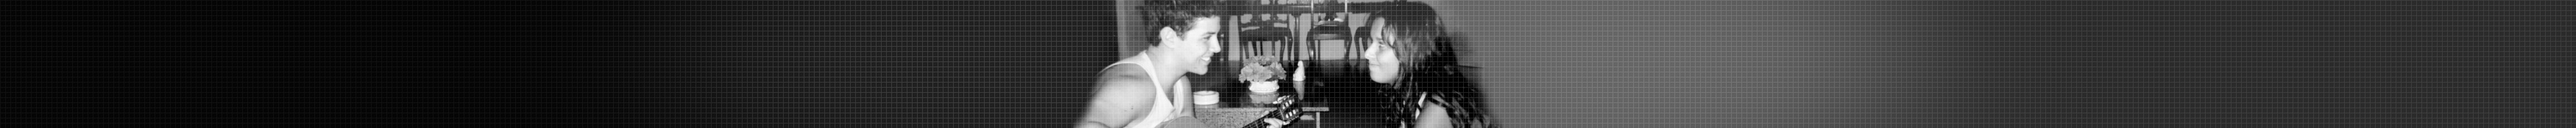
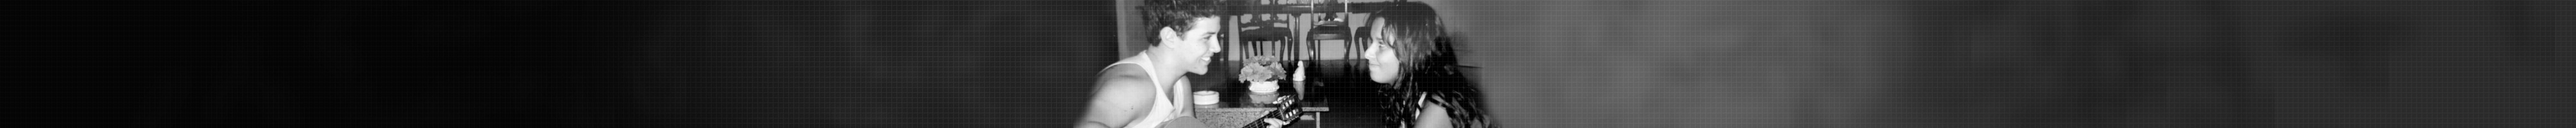
Alteração de imagens de capa e noivos.

diff --git a/assets/css/main.min.css b/assets/css/main.min.css
@@ -1,2 +1,2 @@
-@font-face{font-family:'Great Vibes';src:url("../../assets/fonts/Great_Vibes.woff2")}@font-face{font-family:'Roboto';src:url("../../assets/fonts/Roboto_normal.woff2");font-weight:normal;font-style:normal}@font-face{font-family:'Roboto';src:url("../../assets/fonts/Roboto_bold.woff2");font-weight:bold;font-style:normal}[ng\:cloak],[ng-cloak],[data-ng-cloak],[x-ng-cloak],.ng-cloak,.x-ng-cloak{display:none !important}.container.principal{margin-top:50px;margin-bottom:50px}.navbar-default{background:url(../../assets/images/main_back.jpg) repeat}@media (max-width: 480px), (min-width: 481px) and (max-width: 767px){.navbar-collapse,.navbar-form{border-color:#ddd;background-color:rgba(255,255,255,0.5)}}.navbar{font-family:'Roboto', sans-serif;min-height:80px;border-top:2px dashed #bfad99}@media (min-width: 768px) and (max-width: 1023px){.navbar .container{padding-left:0;padding-right:0}}.navbar .navbar-brand{height:80px;font-family:'Great Vibes', cursive;font-size:35px;line-height:65px;color:#bfad99}.navbar .navbar-brand:hover{color:#bfad99}.navbar .navbar-brand .detalhe{color:#d87385;font-size:20px}.navbar .navbar-header .navbar-toggle{margin-top:23px}@media (min-width: 768px) and (max-width: 1023px), (min-width: 1024px) and (max-width: 1199px), (min-width: 1200px) and (max-width: 1549px), (min-width: 1550px) and (max-width: 1823px), (min-width: 1824px){.navbar .navbar-nav>li{border-top:4px solid transparent;width:100px;font-weight:bold;-webkit-transition:all 0.3s ease-in-out;-moz-transition:all 0.3s ease-in-out;transition:all 0.3s ease-in-out}}@media (min-width: 768px) and (max-width: 1023px) and (min-width: 768px) and (max-width: 1023px), (min-width: 1024px) and (max-width: 1199px) and (min-width: 768px) and (max-width: 1023px), (min-width: 1200px) and (max-width: 1549px) and (min-width: 768px) and (max-width: 1023px), (min-width: 1550px) and (max-width: 1823px) and (min-width: 768px) and (max-width: 1023px), (min-width: 1824px) and (min-width: 768px) and (max-width: 1023px){.navbar .navbar-nav>li{font-size:12px;width:75px}}@media (min-width: 768px) and (max-width: 1023px), (min-width: 1024px) and (max-width: 1199px), (min-width: 1200px) and (max-width: 1549px), (min-width: 1550px) and (max-width: 1823px), (min-width: 1824px){.navbar .navbar-nav>li>a{height:86px;vertical-align:middle;display:table-cell;text-align:center;width:100px;color:#a79581}.navbar .navbar-nav>li>a:hover{color:#a79581}.navbar .navbar-nav>li:hover{border-top:4px solid #d87385;color:#d87385;background-color:rgba(243,231,219,0.5)}.navbar .nav>li>a{position:relative;display:block;padding:23px 10px;display:table-cell}}@media (min-width: 768px) and (max-width: 1023px) and (min-width: 768px) and (max-width: 1023px), (min-width: 1024px) and (max-width: 1199px) and (min-width: 768px) and (max-width: 1023px), (min-width: 1200px) and (max-width: 1549px) and (min-width: 768px) and (max-width: 1023px), (min-width: 1550px) and (max-width: 1823px) and (min-width: 768px) and (max-width: 1023px), (min-width: 1824px) and (min-width: 768px) and (max-width: 1023px){.navbar .nav>li>a{padding:14px 0px;width:50px}}@media (max-width: 480px), (min-width: 481px) and (max-width: 767px){.navbar .navbar-nav>li:hover,.navbar .navbar-nav>li:active{border-left:4px solid #d87385;color:#d87385;background-color:rgba(243,231,219,0.5)}}.img-responsive.center{margin:0 auto}.img-responsive.separador{width:auto;height:25px;margin:25px auto}html{height:100%}body{min-height:100%}div.topo{margin-top:-20px;height:200px;box-shadow:0 0px 50px rgba(0,0,0,0.35)}@media (max-width: 480px), (min-width: 481px) and (max-width: 767px){div.topo{height:120px}}div.topo .titulo{font-family:'Great Vibes';font-size:5em;text-align:center;margin-top:55px;color:#fff;text-shadow:-1px 0 #a79581,0 1px #a79581,1px 0 #a79581,0 -1px #a79581}@media (max-width: 480px), (min-width: 481px) and (max-width: 767px){div.topo .titulo{font-size:3.5em;line-height:0.5}}div.topo.noivos{background:url(../../assets/images/noivos_croped_grid_vignette.jpg) no-repeat center center;background-size:auto auto}div.topo.padrinhos{background:url(../../assets/images/amigos_croped_grid_vignette.jpg) no-repeat center center;background-size:auto 300px}div.topo.traje{background:url(../../assets/images/traje_croped_grid.png) no-repeat center center;background-size:auto 300px}div.topo.presentes{background:url(../../assets/images/presentes_croped_grid_vignette.jpg) no-repeat center center;background-size:auto 300px}div.topo.confirmacao{background:url(../../assets/images/convite_croped_grid_vignette.jpg) no-repeat center center;background-size:auto auto}div.topo.cerimonia{background:url(../../assets/images/cerimonia_croped_grid_vignette.jpg) no-repeat center center;background-size:auto 400px}@media (max-width: 480px), (min-width: 481px) and (max-width: 767px){div.topo.noivos,div.topo.padrinhos,div.topo.traje,div.topo.presentes,div.topo.confirmacao,div.topo.cerimonia{background-size:auto 150px}}section p{text-align:center;font-size:16px}#footer{background-color:#333;color:#a5a5a5}#footer .detalhe{color:#d87385}h1{font-family:'Great Vibes';color:#d87385;margin-bottom:35px;text-align:center;font-size:50px}h1 small{font-family:'Roboto', sans-serif;color:#bfad99;font-size:0.45em}@media (max-width: 480px), (min-width: 481px) and (max-width: 767px){h1 small{display:none}}h2{font-family:'Great Vibes';color:#a79581;text-align:center}.frame-conjuge-wrapper{background-color:#eee;padding:10px;margin-bottom:15px;border-radius:5px}.frame-conjuge-wrapper .frame-conjuge{background-color:#eee;border:1px solid #ddd;border-radius:5px}.frame-conjuge-wrapper .frame-conjuge h1{font-size:35px;margin-bottom:20px;color:#a79581}.frame-conjuge-wrapper .frame-conjuge section p{text-align:center;margin:10px;text-indent:0}.frame-conjuge-wrapper .frame-conjuge .img-avatar{width:240px;height:240px;border-radius:50%;left:0;margin:0px auto;background-position:center;background-size:cover}.frame-conjuge-wrapper .frame-conjuge .img-avatar:before{display:block;content:"";position:absolute;width:240px;height:240px;border:10px solid rgba(255,255,255,0.4);border-radius:50%}.row.card-loja{background-color:#fbfaf2;border-radius:5px;margin-bottom:15px;margin-left:5px;margin-right:5px;border:1px solid #f1efe5}.row.card-loja h1{text-align:left;font-size:30px;margin-top:10px;margin-bottom:10px}.row.card-loja p{text-align:left}.row.card-loja img{width:250px;height:auto}.row.form-presenca{margin-top:10px}.row.form-presenca label{font-family:'Roboto', sans-serif}.row.form-presenca .well{background-color:#fbfaf2}.row.form-presenca .well.well-success{background-color:#d8eed8;border:1px solid #5cb85c}.row.form-presenca .well.well-danger{background-color:#f9e2e2;border:1px solid #d9534f}.row.form-presenca .well h2{font-family:'Roboto', sans-serif;margin-bottom:20px}@media (min-width: 768px) and (max-width: 1023px), (min-width: 1024px) and (max-width: 1199px), (min-width: 1200px) and (max-width: 1549px), (min-width: 1550px) and (max-width: 1823px), (min-width: 1824px){.row.form-presenca .btn-radio{width:250px;text-align:center}}.row.form-presenca .btn-radio>input[type=radio]{position:absolute;clip:rect(0, 0, 0, 0);pointer-events:none}.row.form-presenca .submit{text-align:center;margin-top:30px}.row.form-presenca .centralizado{display:table;margin:0 auto}.row.form-presenca .acompanhantes .btn-default{background-color:#eee}.row.form-presenca .form-group.wrapper.has-error{border:1px solid #d9534f;border-radius:4px}.row.detalhes{background-color:#fbfaf2;border:1px solid #f1efe5;border-radius:5px;padding-bottom:10px}.row.detalhes ul li{display:block}.row.detalhes ul li em{color:#d87385;font-weight:bold;font-style:italic}.row.detalhes ul li:before{content:"\e080";font-family:'Glyphicons Halflings';font-size:12px;float:left;margin-top:2px;margin-left:-17px;color:#d87385}.row div.card-banco{background-color:#ffffff;border-radius:5px;border:1px solid #eee;padding:0 10px;margin:0 auto;box-shadow:0 0px 15px rgba(0,0,0,0.1)}@media (max-width: 480px), (min-width: 481px) and (max-width: 767px){.row div.card-banco{margin-bottom:10px;max-width:300px}}.row div.card-banco div.logo{text-align:center;height:100px}.row div.card-banco div.logo:before{content:'';height:100%;display:inline-block;vertical-align:middle}.row div.card-banco div.logo img{display:inline-block;vertical-align:middle}.row div.card-banco dd{margin-left:15px}.mapa{padding:50px 0px;background-color:#fbfaf2;border-top:1px solid #f1efe5}.mapa iframe{width:100%;height:400px;border:2px dashed #d87385;border-left:0;border-right:0}.padrinhos .container{padding:10px}.padrinhos .container.left{border-top-left-radius:30px;border-bottom-left-radius:30px}.padrinhos .container.right{border-top-right-radius:30px;border-bottom-right-radius:30px}.padrinhos .container .nome{color:#d87385;text-align:center;font-family:'Great Vibes';font-size:2em;margin-top:10px}@media (max-width: 480px){.padrinhos .container .nome{font-size:1.5em}}.padrinhos .container .foto{width:200px;height:200px;border-radius:50%;left:0;margin:0px auto;background-position:center;background-size:cover;-webkit-filter:grayscale(100%);filter:grayscale(100%)}@media (max-width: 480px){.padrinhos .container .foto{width:100px;height:100px}}@media (min-width: 481px) and (max-width: 767px){.padrinhos .container .foto{width:150px;height:150px}}.padrinhos .container .foto:before{display:block;content:"";position:absolute;width:200px;height:200px;border:10px solid rgba(255,255,255,0.4);border-radius:50%}@media (max-width: 480px){.padrinhos .container .foto:before{width:100px;height:100px}}@media (min-width: 481px) and (max-width: 767px){.padrinhos .container .foto:before{width:150px;height:150px}}.padrinhos:hover .container{background-color:#fbfaf2;-webkit-transition:all 0.3s ease-in-out;-moz-transition:all 0.3s ease-in-out;transition:all 0.3s ease-in-out}.padrinhos:hover .container .foto{-webkit-filter:grayscale(0%);filter:grayscale(0%);-webkit-transition:all 0.3s ease-in-out;-moz-transition:all 0.3s ease-in-out;transition:all 0.3s ease-in-out}
+@font-face{font-family:'Great Vibes';src:url("../../assets/fonts/Great_Vibes.woff2")}@font-face{font-family:'Roboto';src:url("../../assets/fonts/Roboto_normal.woff2");font-weight:normal;font-style:normal}@font-face{font-family:'Roboto';src:url("../../assets/fonts/Roboto_bold.woff2");font-weight:bold;font-style:normal}[ng\:cloak],[ng-cloak],[data-ng-cloak],[x-ng-cloak],.ng-cloak,.x-ng-cloak{display:none !important}.container.principal{margin-top:50px;margin-bottom:50px}.navbar-default{background:url(../../assets/images/main_back2.jpg) repeat}@media (max-width: 480px), (min-width: 481px) and (max-width: 767px){.navbar-collapse,.navbar-form{border-color:#ddd;background-color:rgba(255,255,255,0.5)}}.navbar{font-family:'Roboto', sans-serif;min-height:80px;border-top:2px dashed #bfad99}@media (min-width: 768px) and (max-width: 1023px){.navbar .container{padding-left:0;padding-right:0}}.navbar .navbar-brand{height:80px;font-family:'Great Vibes', cursive;font-size:35px;line-height:65px;color:#bfad99}.navbar .navbar-brand:hover{color:#bfad99}.navbar .navbar-brand .detalhe{color:#d87385;font-size:20px}.navbar .navbar-header .navbar-toggle{margin-top:23px}@media (min-width: 768px) and (max-width: 1023px), (min-width: 1024px) and (max-width: 1199px), (min-width: 1200px) and (max-width: 1549px), (min-width: 1550px) and (max-width: 1823px), (min-width: 1824px){.navbar .navbar-nav>li{border-top:4px solid transparent;width:100px;font-weight:bold;-webkit-transition:all 0.3s ease-in-out;-moz-transition:all 0.3s ease-in-out;transition:all 0.3s ease-in-out}}@media (min-width: 768px) and (max-width: 1023px) and (min-width: 768px) and (max-width: 1023px), (min-width: 1024px) and (max-width: 1199px) and (min-width: 768px) and (max-width: 1023px), (min-width: 1200px) and (max-width: 1549px) and (min-width: 768px) and (max-width: 1023px), (min-width: 1550px) and (max-width: 1823px) and (min-width: 768px) and (max-width: 1023px), (min-width: 1824px) and (min-width: 768px) and (max-width: 1023px){.navbar .navbar-nav>li{font-size:12px;width:75px}}@media (min-width: 768px) and (max-width: 1023px), (min-width: 1024px) and (max-width: 1199px), (min-width: 1200px) and (max-width: 1549px), (min-width: 1550px) and (max-width: 1823px), (min-width: 1824px){.navbar .navbar-nav>li>a{height:86px;vertical-align:middle;display:table-cell;text-align:center;width:100px;color:#a79581}.navbar .navbar-nav>li>a:hover{color:#a79581}.navbar .navbar-nav>li:hover{border-top:4px solid #d87385;color:#d87385;background-color:rgba(243,231,219,0.5)}.navbar .nav>li>a{position:relative;display:block;padding:23px 10px;display:table-cell}}@media (min-width: 768px) and (max-width: 1023px) and (min-width: 768px) and (max-width: 1023px), (min-width: 1024px) and (max-width: 1199px) and (min-width: 768px) and (max-width: 1023px), (min-width: 1200px) and (max-width: 1549px) and (min-width: 768px) and (max-width: 1023px), (min-width: 1550px) and (max-width: 1823px) and (min-width: 768px) and (max-width: 1023px), (min-width: 1824px) and (min-width: 768px) and (max-width: 1023px){.navbar .nav>li>a{padding:14px 0px;width:50px}}@media (max-width: 480px), (min-width: 481px) and (max-width: 767px){.navbar .navbar-nav>li:hover,.navbar .navbar-nav>li:active{border-left:4px solid #d87385;color:#d87385;background-color:rgba(243,231,219,0.5)}}.img-responsive.center{margin:0 auto}.img-responsive.separador{width:auto;height:25px;margin:25px auto}html{height:100%}body{min-height:100%}div.topo{margin-top:-20px;height:200px;box-shadow:0 0px 50px rgba(0,0,0,0.35)}@media (max-width: 480px), (min-width: 481px) and (max-width: 767px){div.topo{height:120px}}div.topo .titulo{font-family:'Great Vibes';font-size:5em;text-align:center;margin-top:55px;color:#fff;text-shadow:-1px 0 #a79581,0 1px #a79581,1px 0 #a79581,0 -1px #a79581}@media (max-width: 480px), (min-width: 481px) and (max-width: 767px){div.topo .titulo{font-size:3.5em;line-height:0.5}}div.topo.noivos{background:url(../../assets/images/noivos_croped_grid_vignette.jpg) no-repeat center center;background-size:auto auto}div.topo.padrinhos{background:url(../../assets/images/amigos_croped_grid_vignette.jpg) no-repeat center center;background-size:auto 300px}div.topo.traje{background:url(../../assets/images/traje_croped_grid.png) no-repeat center center;background-size:auto 300px}div.topo.presentes{background:url(../../assets/images/presentes_croped_grid_vignette.jpg) no-repeat center center;background-size:auto 300px}div.topo.confirmacao{background:url(../../assets/images/convite_croped_grid_vignette.jpg) no-repeat center center;background-size:auto auto}div.topo.cerimonia{background:url(../../assets/images/cerimonia_croped_grid_vignette.jpg) no-repeat center center;background-size:auto 400px}@media (max-width: 480px), (min-width: 481px) and (max-width: 767px){div.topo.noivos,div.topo.padrinhos,div.topo.traje,div.topo.presentes,div.topo.confirmacao,div.topo.cerimonia{background-size:auto 150px}}section p{text-align:center;font-size:16px}#footer{background-color:#333;color:#a5a5a5}#footer .detalhe{color:#d87385}h1{font-family:'Great Vibes';color:#d87385;margin-bottom:35px;text-align:center;font-size:50px}h1 small{font-family:'Roboto', sans-serif;color:#bfad99;font-size:0.45em}@media (max-width: 480px), (min-width: 481px) and (max-width: 767px){h1 small{display:none}}h2{font-family:'Great Vibes';color:#a79581;text-align:center}.frame-conjuge-wrapper{background-color:#eee;padding:10px;margin-bottom:15px;border-radius:5px}.frame-conjuge-wrapper .frame-conjuge{background-color:#eee;border:1px solid #ddd;border-radius:5px}.frame-conjuge-wrapper .frame-conjuge h1{font-size:35px;margin-bottom:20px;color:#a79581}.frame-conjuge-wrapper .frame-conjuge section p{text-align:center;margin:10px;text-indent:0}.frame-conjuge-wrapper .frame-conjuge .img-avatar{width:240px;height:240px;border-radius:50%;left:0;margin:0px auto;background-position:center;background-size:cover}.frame-conjuge-wrapper .frame-conjuge .img-avatar:before{display:block;content:"";position:absolute;width:240px;height:240px;border:10px solid rgba(255,255,255,0.4);border-radius:50%}.row.card-loja{background-color:#fbfaf2;border-radius:5px;margin-bottom:15px;margin-left:5px;margin-right:5px;border:1px solid #f1efe5}.row.card-loja h1{text-align:left;font-size:30px;margin-top:10px;margin-bottom:10px}.row.card-loja p{text-align:left}.row.card-loja img{width:250px;height:auto}.row.form-presenca{margin-top:10px}.row.form-presenca label{font-family:'Roboto', sans-serif}.row.form-presenca .well{background-color:#fbfaf2}.row.form-presenca .well.well-success{background-color:#d8eed8;border:1px solid #5cb85c}.row.form-presenca .well.well-danger{background-color:#f9e2e2;border:1px solid #d9534f}.row.form-presenca .well h2{font-family:'Roboto', sans-serif;margin-bottom:20px}@media (min-width: 768px) and (max-width: 1023px), (min-width: 1024px) and (max-width: 1199px), (min-width: 1200px) and (max-width: 1549px), (min-width: 1550px) and (max-width: 1823px), (min-width: 1824px){.row.form-presenca .btn-radio{width:250px;text-align:center}}.row.form-presenca .btn-radio>input[type=radio]{position:absolute;clip:rect(0, 0, 0, 0);pointer-events:none}.row.form-presenca .submit{text-align:center;margin-top:30px}.row.form-presenca .centralizado{display:table;margin:0 auto}.row.form-presenca .acompanhantes .btn-default{background-color:#eee}.row.form-presenca .form-group.wrapper.has-error{border:1px solid #d9534f;border-radius:4px}.row.detalhes{background-color:#fbfaf2;border:1px solid #f1efe5;border-radius:5px;padding-bottom:10px}.row.detalhes ul li{display:block}.row.detalhes ul li em{color:#d87385;font-weight:bold;font-style:italic}.row.detalhes ul li:before{content:"\e080";font-family:'Glyphicons Halflings';font-size:12px;float:left;margin-top:2px;margin-left:-17px;color:#d87385}.row div.card-banco{background-color:#ffffff;border-radius:5px;border:1px solid #eee;padding:0 10px;margin:0 auto;box-shadow:0 0px 15px rgba(0,0,0,0.1)}@media (max-width: 480px), (min-width: 481px) and (max-width: 767px){.row div.card-banco{margin-bottom:10px;max-width:300px}}.row div.card-banco div.logo{text-align:center;height:100px}.row div.card-banco div.logo:before{content:'';height:100%;display:inline-block;vertical-align:middle}.row div.card-banco div.logo img{display:inline-block;vertical-align:middle}.row div.card-banco dd{margin-left:15px}.mapa{padding:50px 0px;background-color:#fbfaf2;border-top:1px solid #f1efe5}.mapa iframe{width:100%;height:400px;border:2px dashed #d87385;border-left:0;border-right:0}.padrinhos .container{padding:10px}.padrinhos .container.left{border-top-left-radius:30px;border-bottom-left-radius:30px}.padrinhos .container.right{border-top-right-radius:30px;border-bottom-right-radius:30px}.padrinhos .container .nome{color:#d87385;text-align:center;font-family:'Great Vibes';font-size:2em;margin-top:10px}@media (max-width: 480px){.padrinhos .container .nome{font-size:1.5em}}.padrinhos .container .foto{width:200px;height:200px;border-radius:50%;left:0;margin:0px auto;background-position:center;background-size:cover;-webkit-filter:grayscale(100%);filter:grayscale(100%)}@media (max-width: 480px){.padrinhos .container .foto{width:100px;height:100px}}@media (min-width: 481px) and (max-width: 767px){.padrinhos .container .foto{width:150px;height:150px}}.padrinhos .container .foto:before{display:block;content:"";position:absolute;width:200px;height:200px;border:10px solid rgba(255,255,255,0.4);border-radius:50%}@media (max-width: 480px){.padrinhos .container .foto:before{width:100px;height:100px;border:5px solid rgba(255,255,255,0.4)}}@media (min-width: 481px) and (max-width: 767px){.padrinhos .container .foto:before{width:150px;height:150px;border:5px solid rgba(255,255,255,0.4)}}.padrinhos:hover .container{background-color:#fbfaf2;-webkit-transition:all 0.3s ease-in-out;-moz-transition:all 0.3s ease-in-out;transition:all 0.3s ease-in-out}.padrinhos:hover .container .foto{-webkit-filter:grayscale(0%);filter:grayscale(0%);-webkit-transition:all 0.3s ease-in-out;-moz-transition:all 0.3s ease-in-out;transition:all 0.3s ease-in-out}
 /*# sourceMappingURL=main.min.css.map */

diff --git a/assets/css/landing.min.css b/assets/css/landing.min.css
@@ -1,2 +1,2 @@
-@font-face{font-family:'Great Vibes';src:url("../../assets/fonts/Great_Vibes.woff2")}@font-face{font-family:'Roboto';src:url("../../assets/fonts/Roboto_normal.woff2");font-weight:normal;font-style:normal}@font-face{font-family:'Roboto';src:url("../../assets/fonts/Roboto_bold.woff2");font-weight:bold;font-style:normal}[ng\:cloak],[ng-cloak],[data-ng-cloak],[x-ng-cloak],.ng-cloak,.x-ng-cloak{display:none !important}.container.principal{margin-top:50px;margin-bottom:50px}.navbar-default{background:url(../../assets/images/main_back.jpg) repeat}@media (max-width: 480px), (min-width: 481px) and (max-width: 767px){.navbar-collapse,.navbar-form{border-color:#ddd;background-color:rgba(255,255,255,0.5)}}.navbar{font-family:'Roboto', sans-serif;min-height:80px;border-top:2px dashed #bfad99}@media (min-width: 768px) and (max-width: 1023px){.navbar .container{padding-left:0;padding-right:0}}.navbar .navbar-brand{height:80px;font-family:'Great Vibes', cursive;font-size:35px;line-height:65px;color:#bfad99}.navbar .navbar-brand:hover{color:#bfad99}.navbar .navbar-brand .detalhe{color:#d87385;font-size:20px}.navbar .navbar-header .navbar-toggle{margin-top:23px}@media (min-width: 768px) and (max-width: 1023px), (min-width: 1024px) and (max-width: 1199px), (min-width: 1200px) and (max-width: 1549px), (min-width: 1550px) and (max-width: 1823px), (min-width: 1824px){.navbar .navbar-nav>li{border-top:4px solid transparent;width:100px;font-weight:bold;-webkit-transition:all 0.3s ease-in-out;-moz-transition:all 0.3s ease-in-out;transition:all 0.3s ease-in-out}}@media (min-width: 768px) and (max-width: 1023px) and (min-width: 768px) and (max-width: 1023px), (min-width: 1024px) and (max-width: 1199px) and (min-width: 768px) and (max-width: 1023px), (min-width: 1200px) and (max-width: 1549px) and (min-width: 768px) and (max-width: 1023px), (min-width: 1550px) and (max-width: 1823px) and (min-width: 768px) and (max-width: 1023px), (min-width: 1824px) and (min-width: 768px) and (max-width: 1023px){.navbar .navbar-nav>li{font-size:12px;width:75px}}@media (min-width: 768px) and (max-width: 1023px), (min-width: 1024px) and (max-width: 1199px), (min-width: 1200px) and (max-width: 1549px), (min-width: 1550px) and (max-width: 1823px), (min-width: 1824px){.navbar .navbar-nav>li>a{height:86px;vertical-align:middle;display:table-cell;text-align:center;width:100px;color:#a79581}.navbar .navbar-nav>li>a:hover{color:#a79581}.navbar .navbar-nav>li:hover{border-top:4px solid #d87385;color:#d87385;background-color:rgba(243,231,219,0.5)}.navbar .nav>li>a{position:relative;display:block;padding:23px 10px;display:table-cell}}@media (min-width: 768px) and (max-width: 1023px) and (min-width: 768px) and (max-width: 1023px), (min-width: 1024px) and (max-width: 1199px) and (min-width: 768px) and (max-width: 1023px), (min-width: 1200px) and (max-width: 1549px) and (min-width: 768px) and (max-width: 1023px), (min-width: 1550px) and (max-width: 1823px) and (min-width: 768px) and (max-width: 1023px), (min-width: 1824px) and (min-width: 768px) and (max-width: 1023px){.navbar .nav>li>a{padding:14px 0px;width:50px}}@media (max-width: 480px), (min-width: 481px) and (max-width: 767px){.navbar .navbar-nav>li:hover,.navbar .navbar-nav>li:active{border-left:4px solid #d87385;color:#d87385;background-color:rgba(243,231,219,0.5)}}.img-responsive.center{margin:0 auto}.img-responsive.separador{width:auto;height:25px;margin:25px auto}html{background:url(../../assets/images/bg_teste_2.jpg) no-repeat center center fixed;background-size:cover;-webkit-background-size:cover;-moz-background-size:cover;-o-background-size:cover}body{background-color:transparent;box-shadow:0 0 500px rgba(93,60,0,0.8) inset}.conjuges{font-family:'Great Vibes', cursive;font-size:60px;color:#fff;margin-top:75px}.conjuges>.conector{text-align:center;color:#d87385}.conjuges>.noiva{text-align:right}.conjuges>.noivo{text-align:left}@media (min-width: 768px) and (max-width: 1023px){.conjuges{font-size:50px}}@media (max-width: 480px), (min-width: 481px) and (max-width: 767px){.conjuges{font-size:50px}.conjuges>.noiva{text-align:center}.conjuges>.noivo{text-align:center}.conjuges>.conector{font-size:35px;margin-bottom:-10px}}@media (min-width: 768px) and (max-width: 1023px), (min-width: 1024px) and (max-width: 1199px), (min-width: 1200px) and (max-width: 1549px), (min-width: 1550px) and (max-width: 1823px), (min-width: 1824px){.conjuges{margin-top:120px}}@media (min-width: 1550px) and (max-width: 1823px), (min-width: 1824px){.conjuges{font-size:80px;margin-top:250px}}.subtitulo{font-family:'Roboto', sans-serif;font-weight:300;font-size:19px;color:#fff;text-align:center;letter-spacing:6px;text-transform:uppercase}@media (max-width: 480px), (min-width: 481px) and (max-width: 767px){.subtitulo{font-size:16px;margin-top:15px}}.countdown-unit{font-family:'Roboto', sans-serif;font-weight:300;border-radius:50%;width:150px;height:150px;background:rgba(255,255,255,0.3);border:3px solid #d87385;text-align:center;color:#fff;margin:50px auto 0 auto}.countdown-unit>.tempo{font-size:55px;display:block;margin-top:15px;text-shadow:0px 0px 14px #969696}.countdown-unit>.unidade{display:block;font-size:20px}@media (min-width: 768px) and (max-width: 1023px){.countdown-unit{width:120px;height:120px}.countdown-unit>.tempo{font-size:40px;margin-top:10px}.countdown-unit>.unidade{font-size:14px}}@media (max-width: 480px), (min-width: 481px) and (max-width: 767px){.countdown-unit{width:65px;height:65px}.countdown-unit>.tempo{font-size:26px;margin-top:10px}.countdown-unit>.unidade{font-size:14px;margin-top:20px}}.animate-if.ng-enter,.animate-if.ng-leave{-webkit-transition:all cubic-bezier(0.25, 0.46, 0.45, 0.94) 1s;-moz-transition:all cubic-bezier(0.25, 0.46, 0.45, 0.94) 1s;transition:all cubic-bezier(0.25, 0.46, 0.45, 0.94) 1s}.animate-if.ng-enter,.animate-if.ng-leave.ng-leave-active{opacity:0}.animate-if.ng-leave,.animate-if.ng-enter.ng-enter-active{opacity:1}
+@font-face{font-family:'Great Vibes';src:url("../../assets/fonts/Great_Vibes.woff2")}@font-face{font-family:'Roboto';src:url("../../assets/fonts/Roboto_normal.woff2");font-weight:normal;font-style:normal}@font-face{font-family:'Roboto';src:url("../../assets/fonts/Roboto_bold.woff2");font-weight:bold;font-style:normal}[ng\:cloak],[ng-cloak],[data-ng-cloak],[x-ng-cloak],.ng-cloak,.x-ng-cloak{display:none !important}.container.principal{margin-top:50px;margin-bottom:50px}.navbar-default{background:url(../../assets/images/main_back2.jpg) repeat}@media (max-width: 480px), (min-width: 481px) and (max-width: 767px){.navbar-collapse,.navbar-form{border-color:#ddd;background-color:rgba(255,255,255,0.5)}}.navbar{font-family:'Roboto', sans-serif;min-height:80px;border-top:2px dashed #bfad99}@media (min-width: 768px) and (max-width: 1023px){.navbar .container{padding-left:0;padding-right:0}}.navbar .navbar-brand{height:80px;font-family:'Great Vibes', cursive;font-size:35px;line-height:65px;color:#bfad99}.navbar .navbar-brand:hover{color:#bfad99}.navbar .navbar-brand .detalhe{color:#d87385;font-size:20px}.navbar .navbar-header .navbar-toggle{margin-top:23px}@media (min-width: 768px) and (max-width: 1023px), (min-width: 1024px) and (max-width: 1199px), (min-width: 1200px) and (max-width: 1549px), (min-width: 1550px) and (max-width: 1823px), (min-width: 1824px){.navbar .navbar-nav>li{border-top:4px solid transparent;width:100px;font-weight:bold;-webkit-transition:all 0.3s ease-in-out;-moz-transition:all 0.3s ease-in-out;transition:all 0.3s ease-in-out}}@media (min-width: 768px) and (max-width: 1023px) and (min-width: 768px) and (max-width: 1023px), (min-width: 1024px) and (max-width: 1199px) and (min-width: 768px) and (max-width: 1023px), (min-width: 1200px) and (max-width: 1549px) and (min-width: 768px) and (max-width: 1023px), (min-width: 1550px) and (max-width: 1823px) and (min-width: 768px) and (max-width: 1023px), (min-width: 1824px) and (min-width: 768px) and (max-width: 1023px){.navbar .navbar-nav>li{font-size:12px;width:75px}}@media (min-width: 768px) and (max-width: 1023px), (min-width: 1024px) and (max-width: 1199px), (min-width: 1200px) and (max-width: 1549px), (min-width: 1550px) and (max-width: 1823px), (min-width: 1824px){.navbar .navbar-nav>li>a{height:86px;vertical-align:middle;display:table-cell;text-align:center;width:100px;color:#a79581}.navbar .navbar-nav>li>a:hover{color:#a79581}.navbar .navbar-nav>li:hover{border-top:4px solid #d87385;color:#d87385;background-color:rgba(243,231,219,0.5)}.navbar .nav>li>a{position:relative;display:block;padding:23px 10px;display:table-cell}}@media (min-width: 768px) and (max-width: 1023px) and (min-width: 768px) and (max-width: 1023px), (min-width: 1024px) and (max-width: 1199px) and (min-width: 768px) and (max-width: 1023px), (min-width: 1200px) and (max-width: 1549px) and (min-width: 768px) and (max-width: 1023px), (min-width: 1550px) and (max-width: 1823px) and (min-width: 768px) and (max-width: 1023px), (min-width: 1824px) and (min-width: 768px) and (max-width: 1023px){.navbar .nav>li>a{padding:14px 0px;width:50px}}@media (max-width: 480px), (min-width: 481px) and (max-width: 767px){.navbar .navbar-nav>li:hover,.navbar .navbar-nav>li:active{border-left:4px solid #d87385;color:#d87385;background-color:rgba(243,231,219,0.5)}}.img-responsive.center{margin:0 auto}.img-responsive.separador{width:auto;height:25px;margin:25px auto}html{background:url(../../assets/images/capa.jpg) no-repeat center center fixed;background-size:cover;-webkit-background-size:cover;-moz-background-size:cover;-o-background-size:cover}@media (max-width: 480px){html{background:url(../../assets/images/capa.jpg) no-repeat -200px center fixed;background-size:cover;-webkit-background-size:cover;-moz-background-size:cover;-o-background-size:cover}}body{background-color:transparent}.conjuges{font-family:'Great Vibes', cursive;font-size:60px;color:#fff;margin-top:75px;text-shadow:0px 0px 14px #404040}.conjuges>.conector{text-align:center;color:#d87385}.conjuges>.noiva{text-align:right}.conjuges>.noivo{text-align:left}@media (min-width: 768px) and (max-width: 1023px){.conjuges{font-size:50px}}@media (max-width: 480px), (min-width: 481px) and (max-width: 767px){.conjuges{font-size:50px}.conjuges>.noiva{text-align:center}.conjuges>.noivo{text-align:center}.conjuges>.conector{font-size:35px;margin-bottom:-10px}}@media (min-width: 768px) and (max-width: 1023px), (min-width: 1024px) and (max-width: 1199px), (min-width: 1200px) and (max-width: 1549px), (min-width: 1550px) and (max-width: 1823px), (min-width: 1824px){.conjuges{margin-top:120px}}@media (min-width: 1550px) and (max-width: 1823px), (min-width: 1824px){.conjuges{font-size:80px;margin-top:250px}}.subtitulo{font-family:'Roboto', sans-serif;font-weight:300;font-size:19px;color:#fff;text-align:center;letter-spacing:6px;text-transform:uppercase}@media (max-width: 480px), (min-width: 481px) and (max-width: 767px){.subtitulo{font-size:16px;margin-top:15px}}.countdown-unit{font-family:'Roboto', sans-serif;font-weight:300;border-radius:50%;width:150px;height:150px;background:rgba(255,255,255,0.3);border:3px solid #d87385;text-align:center;color:#fff;margin:50px auto 0 auto}.countdown-unit>.tempo{font-size:55px;display:block;margin-top:15px;text-shadow:0px 0px 14px #444}.countdown-unit>.unidade{display:block;font-size:20px}@media (min-width: 768px) and (max-width: 1023px){.countdown-unit{width:120px;height:120px}.countdown-unit>.tempo{font-size:40px;margin-top:10px}.countdown-unit>.unidade{font-size:14px}}@media (max-width: 480px), (min-width: 481px) and (max-width: 767px){.countdown-unit{width:65px;height:65px}.countdown-unit>.tempo{font-size:26px;margin-top:10px}.countdown-unit>.unidade{font-size:14px;margin-top:20px}}.animate-if.ng-enter,.animate-if.ng-leave{-webkit-transition:all cubic-bezier(0.25, 0.46, 0.45, 0.94) 1s;-moz-transition:all cubic-bezier(0.25, 0.46, 0.45, 0.94) 1s;transition:all cubic-bezier(0.25, 0.46, 0.45, 0.94) 1s}.animate-if.ng-enter,.animate-if.ng-leave.ng-leave-active{opacity:0}.animate-if.ng-leave,.animate-if.ng-enter.ng-enter-active{opacity:1}
 /*# sourceMappingURL=landing.min.css.map */

diff --git a/src/assets/_sass/landing.scss b/src/assets/_sass/landing.scss
@@ -9,21 +9,27 @@ $output-bourbon-deprecation-warnings: false !default;
 
 
 html {
-    // background: url(../../assets/images/bg_teste.jpg) no-repeat center center fixed; 
-    // background: url(../../assets/images/bg.jpg) no-repeat center center fixed; 
-    // background: url(../../assets/images/foto_bg.jpg) no-repeat center center fixed; 
-    background: url(../../assets/images/bg_teste_2.jpg) no-repeat center center fixed; 
+    // background: url(../../assets/images/bg_teste_2.jpg) no-repeat center center fixed; 
+    background: url(../../assets/images/capa.jpg) no-repeat center center fixed; 
     background-size: cover;
     -webkit-background-size: cover;
     -moz-background-size: cover;
     -o-background-size: cover;
+
+    @media #{$oldSmartphone} {
+        background: url(../../assets/images/capa.jpg) no-repeat -200px center fixed; 
+        background-size: cover;
+        -webkit-background-size: cover;
+        -moz-background-size: cover;
+        -o-background-size: cover;
+    }
 }
 
 body {
     background-color: transparent;
 
     // box-shadow: 0 0 500px rgba(0,0,0,0.9) inset;
-    box-shadow: 0 0 500px rgba(93, 60, 0, 0.8) inset;
+    // box-shadow: 0 0 500px rgba(93, 60, 0, 0.8) inset;
 }
 
 
@@ -34,6 +40,7 @@ body {
     font-size: 60px;
     color: #fff;
     margin-top: 75px;
+    text-shadow: 0px 0px 14px #404040;
     
     &>.conector {
         text-align: center;
@@ -90,7 +97,7 @@ body {
         font-size: 55px;
         display: block;
         margin-top: 15px;
-        text-shadow: 0px 0px 14px rgba(150, 150, 150, 1);
+        text-shadow: 0px 0px 14px rgba(68, 68, 68, 1);
     }
 
     &>.unidade {

diff --git a/src/assets/_sass/main.scss b/src/assets/_sass/main.scss
@@ -363,10 +363,12 @@ h2 {
                 @media #{$oldSmartphone} {
                     width: 100px;
                     height: 100px;
+                    border: 5px solid rgba(255,255,255,0.4);
                 }
                 @media #{$commonSmartphone} {
                     width: 150px;
                     height: 150px;
+                    border: 5px solid rgba(255,255,255,0.4);
                 }
             }
 

diff --git a/src/assets/_sass/modificacoes_bootstrap.scss b/src/assets/_sass/modificacoes_bootstrap.scss
@@ -30,7 +30,7 @@
 }
 
 .navbar-default {
-    background: url(../../assets/images/main_back.jpg) repeat;
+    background: url(../../assets/images/main_back2.jpg) repeat;
 }
 
 .navbar-collapse, .navbar-form {

diff --git a/noivos/index.php b/noivos/index.php
@@ -36,7 +36,7 @@
                     <div class="frame-conjuge-wrapper">
                         <div class="frame-conjuge">
                             <h1>Felipe Leão</h1>
-                            <div class="img-avatar" style="background-image: url(../assets/images/felipe.jpg);"></div>
+                            <div class="img-avatar" style="background-image: url(../assets/images/felipe3.jpg);"></div>
                             <section>
                                 <p>Mussum Ipsum, cacilds vidis litro abertis. Quem num gosta di mé, boa gentis num é. Delegadis gente finis, bibendum egestas augue arcu ut est. Interessantiss quisso pudia ce receita de bolis, mais bolis eu num gostis. Nec orci ornare consequat</p>
                             </section>

diff --git a/template/header.tpl.php b/template/header.tpl.php
@@ -33,7 +33,7 @@
           	include_once(TEMPLATE_ESTILO); 
         }else{
 			      echo '<link href="' . CSS_ROOT . '/sticky_footer.css" rel="stylesheet">';
-            echo '<link href="' . CSS_ROOT . '/main.min.css?rel=49c6f32a9f" rel="stylesheet">';
+            echo '<link href="' . CSS_ROOT . '/main.min.css?rel=67e7224e13" rel="stylesheet">';
 		    }
     ?>
 

diff --git a/template/estilos_landing.tpl.php b/template/estilos_landing.tpl.php
@@ -1,2 +1,2 @@
 <link href="<?= CSS_ROOT; ?>/sticky_footer.css" rel="stylesheet">
-<link href="<?= CSS_ROOT; ?>/landing.min.css?rel=17977fa54f" rel="stylesheet">
+<link href="<?= CSS_ROOT; ?>/landing.min.css?rel=226e82fda8" rel="stylesheet">
